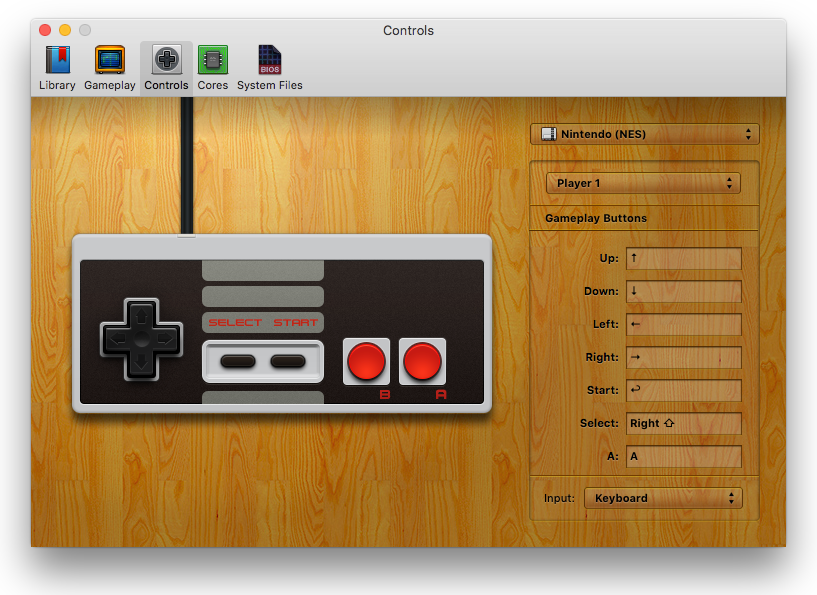
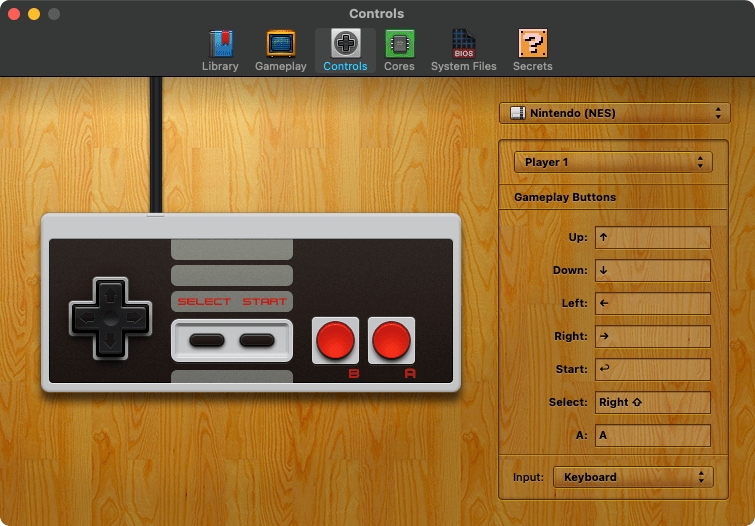
extractor fixes, better prefs images
had to fix some gulp processing errors and updated a couple of the controls/prefs screenshots using a better png compressor to save more load time... eventually I'll update all the images so the site should load even faster

diff --git a/css/main-e2f44204.css b/css/main-e2f44204.css
@@ -1,0 +1,1 @@
[1 lines of base64/hex data omitted]

diff --git a/_src/gulpfile.js b/_src/gulpfile.js
@@ -17,21 +17,10 @@ gulp.task('css', function(){
     ]))
     .pipe(purgecss({
       content: ['./*.html', './js/*.js'],
-      extractors: [
-        {
-          extractor: class TailwindExtractor {
-            static extract(content) {
-              return content.match(/[A-Za-z0-9-_:\/]+/g) || [];
-            }
-          },
-          extensions: ['html', 'js']
-        }
-      ]
+      defaultExtractor: content =>
+      content.match(/[\w-/:]+(?<!:)/g) || []
     }))
-    .pipe(autoprefixer({
-        browsers: ['last 2 versions'],
-        cascade: false
-    }))
+    .pipe(autoprefixer())
     .pipe(cleanCSS({compatibility: 'ie8'}))
     .pipe(hash())
     .pipe(gulp.dest('../css/'))

diff --git a/_src/css/main.css b/_src/css/main.css
@@ -16,7 +16,7 @@ img { vertical-align: middle; }
 .img-border { display: inline-block; position: relative; }
 .img-border:after { border: 1px solid #000; width: 100%; height: 100%; display: block; content: ""; position: absolute; top: 0; left: 0; box-shadow: inset 0 1px 0 rgba(255,255,255,0.2), 0 2px 3px rgba(0,0,0,0.75); }
 
-.controls-prefs { top: 65px; left: -247px; }
+.controls-prefs { top: 87px; left: -216px; border-radius: 10px; box-shadow: 0 0 0 1px rgba(0,0,0,.2), 0 0 40px rgba(0,0,0,.75); }
 
 .controller { @apply .hidden .absolute .pin-t .z-10 .transition-slow; }
 .controller-sms { left: -548px; }

diff --git a/index.html b/index.html
@@ -24,7 +24,7 @@
     <meta property="og:description" content="Console and Arcade video game emulator for macOS." />
 
     <link href="//cdnjs.cloudflare.com/ajax/libs/font-awesome/4.7.0/css/font-awesome.min.css" rel="stylesheet" />
-    <link href="css/main-29c4a5b6.css" rel="stylesheet" />
+    <link href="css/main-e2f44204.css" rel="stylesheet" />
   </head>
   <body class="bg-black text-grey-lightest text-sm leading-normal text-shadow overflow-y-scroll overflow-x-hidden" style="background-image: url('img/grunge.png');">
 
